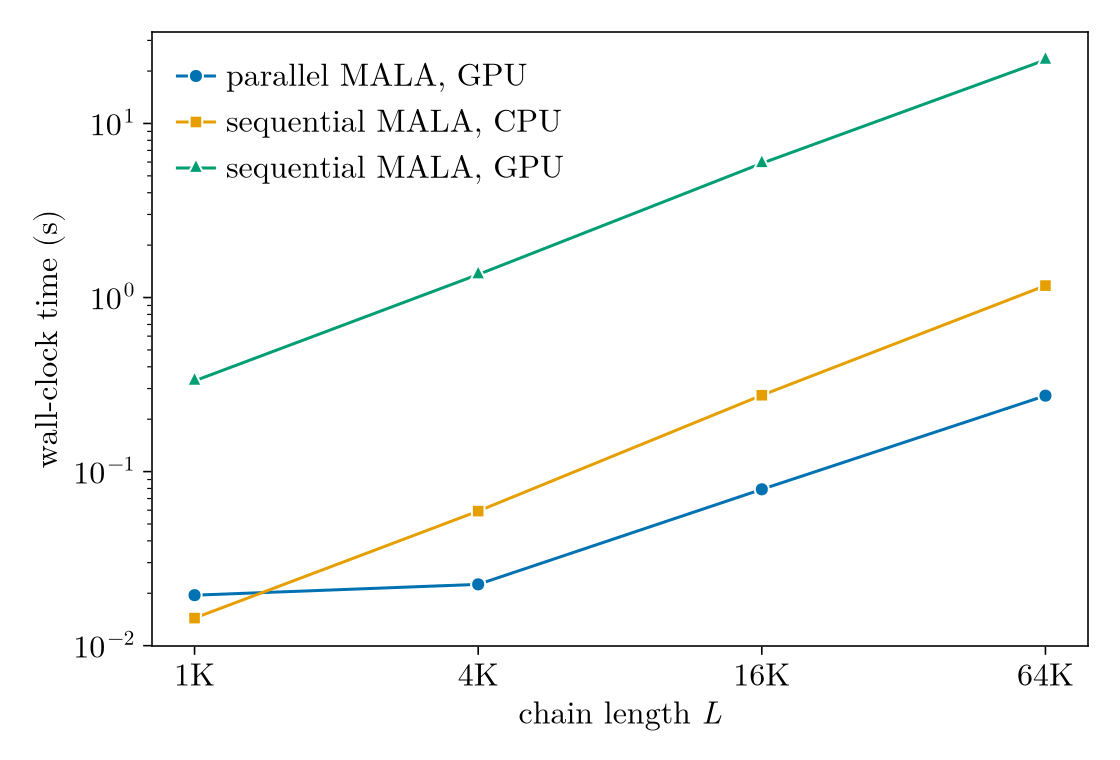
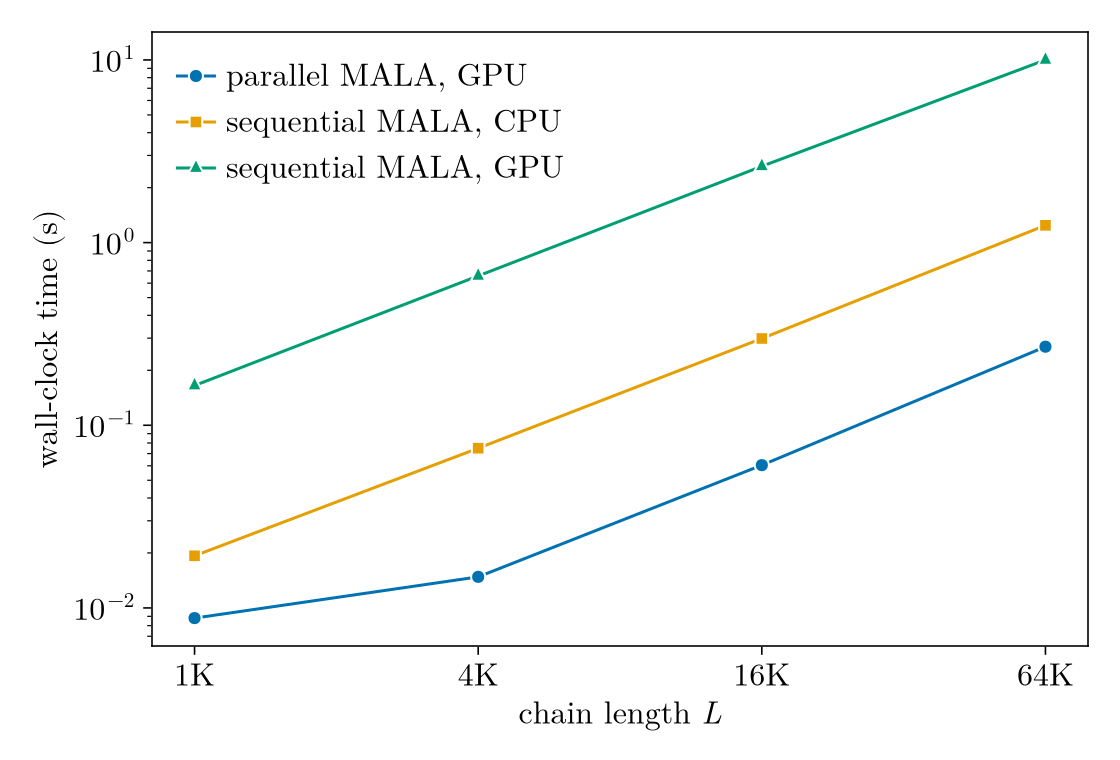
cluster run

diff --git a/README.md b/README.md
@@ -38,19 +38,19 @@ The approach and its scaling tricks (stochastic Hutchinson Jacobian estimators, 
 We repeat the Bayesian logistic regression of Zoltowski et al. (2025, Section 5.2) on the German Credit data, with whitened covariates, an intercept, and a $\mathcal{N}(0, I)$ prior, so the posterior has 25 dimensions.
 Each method draws one chain of $L$ samples with step size $\varepsilon = 0.0015$, which accepts about 85% of proposals.
 `ParallelMALASampler` solves the whole chain as one block, and its samples match the sequential chain step for step up to the solver tolerance of $5 \times 10^{-4}$.
+The exception would be an accept decision that falls within that tolerance of the threshold and flips; none did in these runs, and the parallel chain stayed within $3 \times 10^{-4}$ of the sequential one at every $L$.
 The model returns its log-density, gradient and Hessian-vector product from one `value_grad_hvp_batch` call, so each DEER iteration computes $X\beta$ once per state.
-The exception is an accept decision that falls within that tolerance of the threshold: in the 16 000-step run a single such decision flipped, and the two chains rejoined 43 steps later.
-The 64 000-step run draws the same random numbers for its first 16 000 steps and has the same flip.
 
 <p align="center">
   <img src="docs/src/assets/german_credit.png" alt="Wall-clock time against chain length for parallel MALA on the GPU and sequential MALA on the CPU and GPU" width="560">
 </p>
 
-At $L = 64\,000$ the parallel sampler is 4.3 times faster than sequential MALA on the CPU and 85 times faster than sequential MALA on the GPU.
-These timings come from one RTX 5090 and a 12-thread CPU under Windows.
+At $L = 64\,000$ the parallel sampler is 4.6 times faster than sequential MALA on the CPU and 37 times faster than sequential MALA on the GPU.
+These timings come from one NVIDIA H200 NVL and 8 cores of an AMD EPYC 9135 under Linux.
 Sequential MALA on a GPU waits for the device several times per step to make each accept decision on the host, so it trails the CPU at this size.
-The paper compiles its sequential baseline with JAX, which keeps the whole loop on the device, and reports parallel speedups of 20 to 30 times.
-The script is [`benchmarks/ParallelMCMCBenchmarks/scripts/german_credit.jl`](benchmarks/ParallelMCMCBenchmarks/scripts/german_credit.jl).
+Compiled into one device program with Reactant, as the paper does with JAX, sequential MALA takes 12 µs per step on the same GPU, and the parallel sampler is 2.8 times faster than that.
+The paper's speedups of 20 to 30 times are for two chains at a time and about 10 for one, against a JAX loop that takes 19 to 28 µs per step on this GPU, depending on the JAX version.
+The scripts are [`german_credit.jl`](benchmarks/ParallelMCMCBenchmarks/scripts/german_credit.jl) and [`german_credit_reactant.jl`](benchmarks/ParallelMCMCBenchmarks/scripts/german_credit_reactant.jl).
 
 ### Samplers
 
